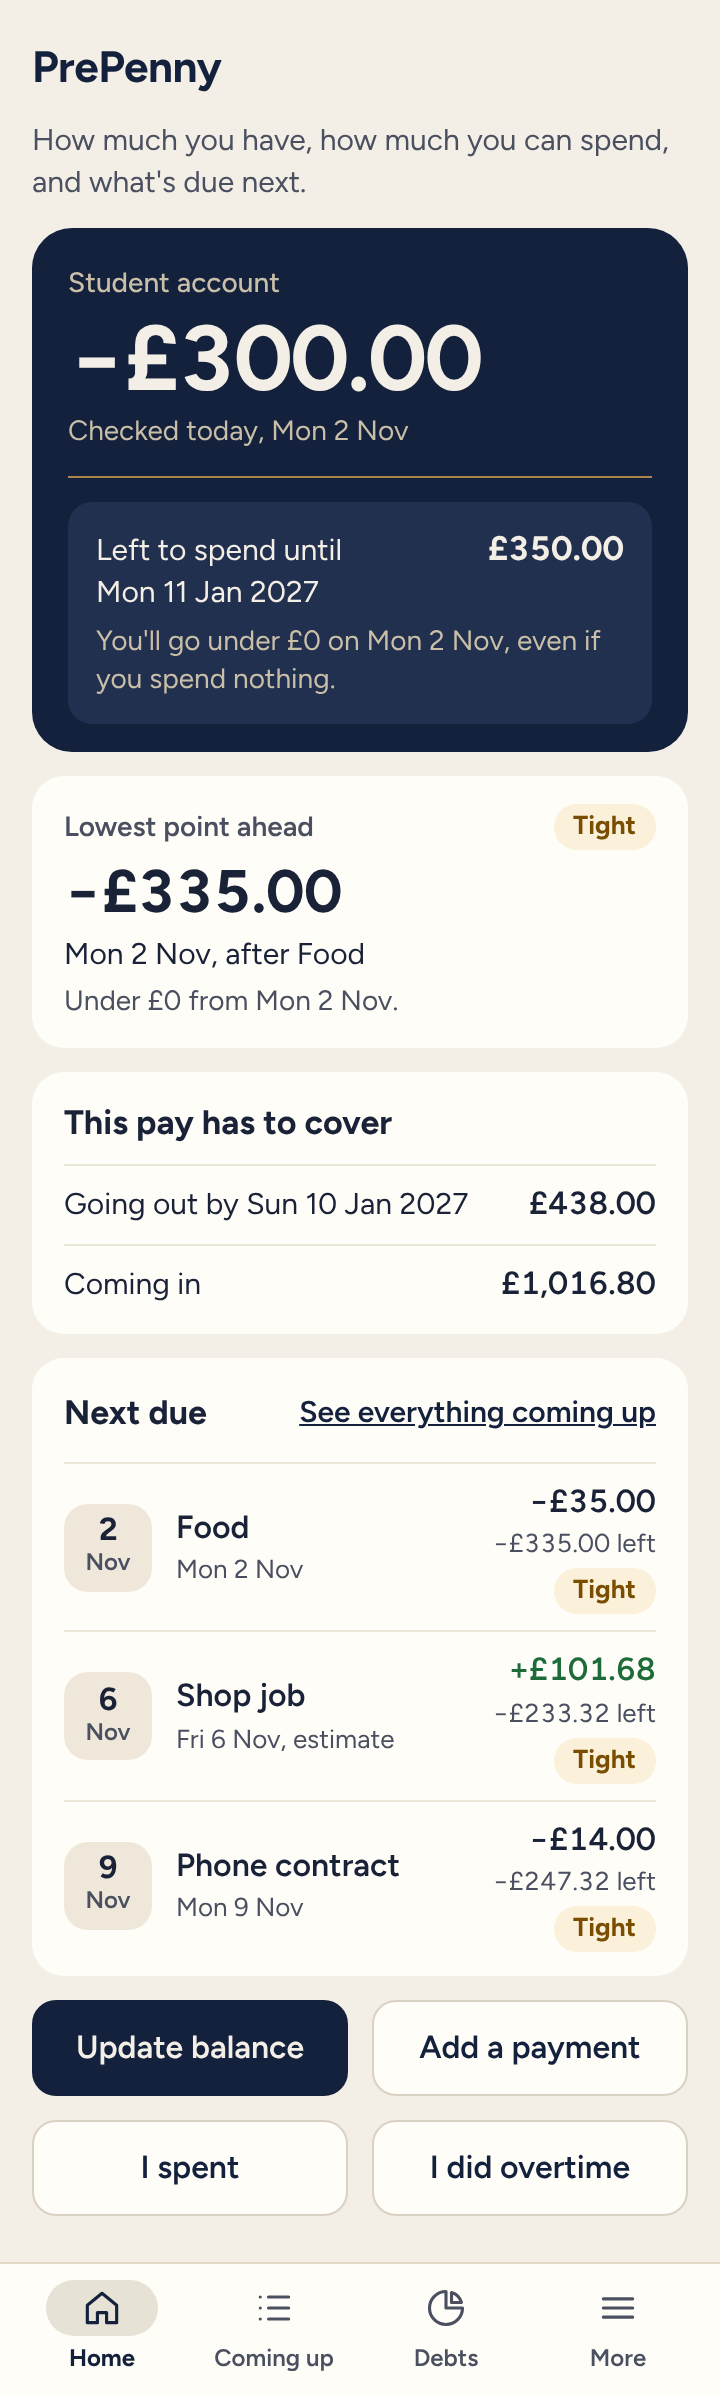
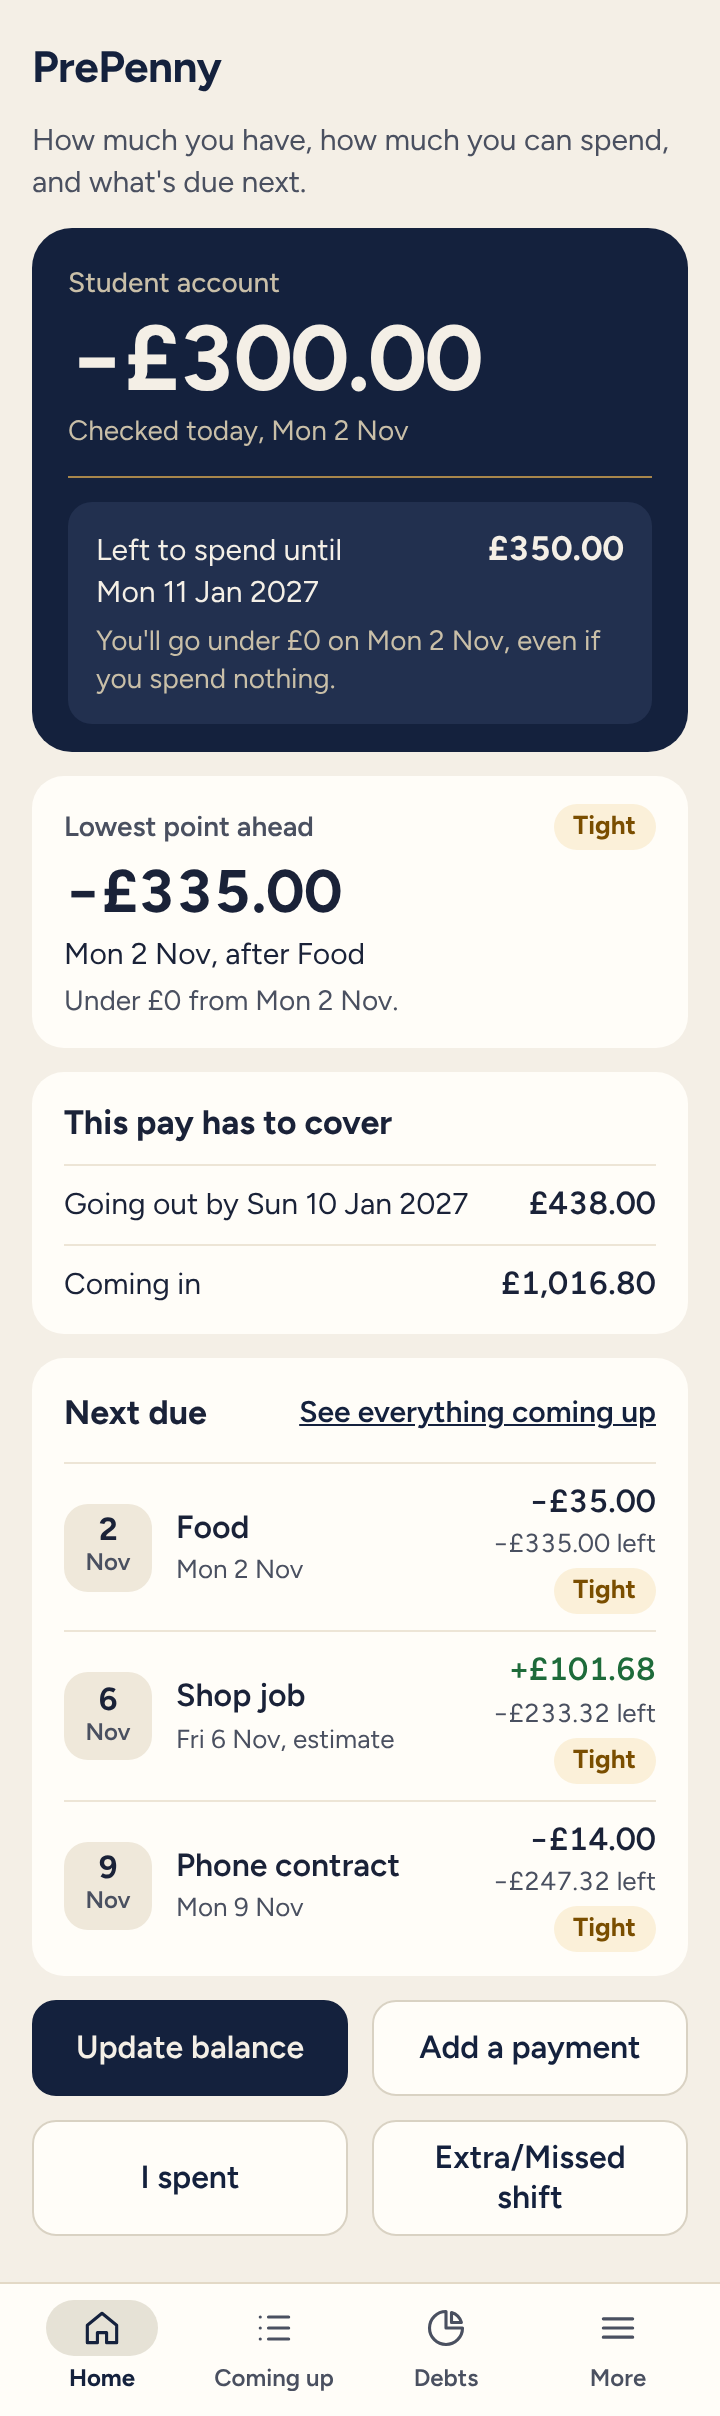
Take step 3a's screenshots, and retake step 2h's Home screenshots with Extra/Missed shift
Claude-Session: https://claude.ai/code/session_01R7WB9vDc4azMZnwEAro6r1

diff --git a/apps/web/e2e/screens.spec.ts b/apps/web/e2e/screens.spec.ts
@@ -14,8 +14,10 @@
 // bottom. Step 2g: What if with the owner's test 1 change made, before
 // keeping it; the pay calculator's result for test 3; and Check my payslip
 // for test 5, at 360px in light. Step 2h: each of the six people's Home at
-// 360px in light, set up through the screens, and Your job. Run only when
-// asked, one step at a time:
+// 360px in light, set up through the screens, and Your job. Step 3a: the
+// screens the owner's answers to step 2h changed. Run only when asked, one
+// step at a time, with the browser in British English (LANG=en_GB.UTF-8), so
+// date boxes read 30/10/2026:
 //
 //   SCREENS=1 pnpm e2e --project phone-360 screens -g "Step 2d-2"
 
@@ -173,7 +175,7 @@ const sheetShots: readonly {
   },
   {
     file: 'overtime-360-light.png',
-    button: 'I did overtime',
+    button: 'Extra/Missed shift',
     setting: null,
     fill: async (page) => {
       const sheet = page.getByRole('dialog');
@@ -568,6 +570,8 @@ const people2h = [
     setUp: async (page: Page) => {
       await setUpPriya(page);
       await page.getByRole('button', { name: 'Go to my plan' }).click();
+      // Setup is saved as done before Home opens, so opening it again finds Home.
+      await expect(page.getByTestId('balance')).toBeVisible();
     },
   },
   { file: 'dee-home-360-light.png', setUp: setUpDee },
@@ -576,6 +580,8 @@ const people2h = [
     setUp: async (page: Page) => {
       await setUpKofi(page);
       await page.getByRole('button', { name: 'Go to my plan' }).click();
+      // Setup is saved as done before Home opens, so opening it again finds Home.
+      await expect(page.getByTestId('balance')).toBeVisible();
     },
   },
   { file: 'jess-and-tom-home-360-light.png', setUp: setUpJessAndTom },
@@ -602,5 +608,131 @@ test('Step 2h: your-job-360-light.png', async ({ browser }) => {
   await page.goto('/app/job/');
   await expect(page.getByTestId('job')).toBeVisible();
   await shoot2h(page, 'your-job-360-light.png');
+  await context.close();
+});
+
+// Step 3a: the screens the owner's answers to step 2h changed (D277 to D284),
+// at 360px in light, on Sam's example: Home's "Extra/Missed shift", Coming
+// up's "Try a change" and "Change view", "Mark as arrived", closing a debt,
+// "Payday 2 of 4" for fortnightly pay, and the undo bar at 200% text at 320px.
+
+async function step3aPage(
+  browser: import('@playwright/test').Browser,
+  setting: TestSetting | null = null,
+  width = 360,
+  height = 800,
+) {
+  const context = await browser.newContext({
+    viewport: { width, height },
+    deviceScaleFactor: 2,
+    isMobile: true,
+    hasTouch: true,
+    colorScheme: 'light',
+    reducedMotion: 'reduce',
+    locale: 'en-GB',
+    timezoneId: 'Europe/London',
+  });
+  await openOnExample(context);
+  if (setting !== null) {
+    await context.addInitScript(settingScript, [TEST_SETTING_KEY, setting] as const);
+  }
+  return { context, page: await context.newPage() };
+}
+
+/** What's on screen now, into docs/screens/3a. */
+async function shoot3a(page: Page, file: string) {
+  await page.evaluate(() => document.fonts.ready);
+  const step = join(screens, '3a');
+  mkdirSync(step, { recursive: true });
+  await page.screenshot({ path: join(step, file) });
+}
+
+test('Step 3a: home-360-light.png', async ({ browser }) => {
+  const { context, page } = await step3aPage(browser);
+  await page.goto('/app/');
+  await expect(page.getByRole('button', { name: 'Extra/Missed shift' })).toBeVisible();
+  await expect(page.getByTestId('balance')).toBeVisible();
+  await expect(page.getByTestId('lowest-point')).toBeVisible();
+  // The whole page, so the four buttons show.
+  const height = await page.evaluate(() => document.documentElement.scrollHeight);
+  await page.setViewportSize({ width: 360, height });
+  await shoot3a(page, 'home-360-light.png');
+  await context.close();
+});
+
+test('Step 3a: coming-up-360-light.png', async ({ browser }) => {
+  const { context, page } = await step3aPage(browser);
+  await page.goto('/app/coming-up/');
+  // "How to read this" shows on the first visit; Got it puts it away (D212).
+  await page.getByRole('button', { name: 'Got it' }).click();
+  await expect(page.getByRole('link', { name: 'Try a change' })).toBeVisible();
+  await expect(page.getByRole('button', { name: 'Change view' })).toBeVisible();
+  await page.evaluate(() => window.scrollTo(0, 0));
+  await shoot3a(page, 'coming-up-360-light.png');
+  await context.close();
+});
+
+test('Step 3a: mark-as-arrived-360-light.png', async ({ browser }) => {
+  const { context, page } = await step3aPage(browser);
+  await page.goto('/app/coming-up/');
+  const friday = page.locator('[data-testid="period"][data-start="2026-10-30"]');
+  await friday.locator(':scope > :is(h3, h4) > button').click();
+  await friday.getByRole('button', { name: /^Pay Fri/ }).click();
+  await expect(
+    page.getByRole('dialog', { name: 'Pay' }).getByRole('button', { name: 'Mark as arrived' }),
+  ).toBeVisible();
+  await shoot3a(page, 'mark-as-arrived-360-light.png');
+  await context.close();
+});
+
+test('Step 3a: close-debt-360-light.png', async ({ browser }) => {
+  const { context, page } = await step3aPage(browser);
+  await page.goto('/app/debts/');
+  await page.getByRole('link', { name: /^Family loan/ }).click();
+  await page.getByRole('button', { name: 'Close this debt' }).click();
+  await expect(page.getByRole('radio', { name: 'Yes, remove them' })).toBeVisible();
+  await shoot3a(page, 'close-debt-360-light.png');
+  await context.close();
+});
+
+test('Step 3a: usual-week-fortnightly-360-light.png', async ({ browser }) => {
+  const fortnightly: PlanRecords = {
+    ...examplePlan,
+    series: examplePlan.series.map((one) =>
+      one.id === 'pay' ? { ...one, schedule: { kind: 'weekly', every: 2 } } : one,
+    ),
+    payProfiles: (examplePlan.payProfiles ?? []).map(({ soFar: _weekly, ...one }) => ({
+      ...one,
+      frequency: 'two-weekly',
+    })),
+  };
+  const { context, page } = await step3aPage(browser, { plan: fortnightly });
+  await page.goto('/app/pay/');
+  await page.getByRole('button', { name: 'Work out take-home pay' }).click();
+  await page
+    .getByTestId('pay-result')
+    .getByRole('button', { name: 'Save as a usual week' })
+    .click();
+  const sheet = page.getByRole('dialog', { name: 'Save as a usual week' });
+  await sheet.getByRole('radio', { name: 'One payday of the pattern' }).check();
+  await sheet.getByRole('radio', { name: /^Payday 2 of 4/ }).check();
+  await sheet.getByRole('radio', { name: /^Payday 2 of 4/ }).scrollIntoViewIfNeeded();
+  await shoot3a(page, 'usual-week-fortnightly-360-light.png');
+  await context.close();
+});
+
+test('Step 3a: undo-bar-200-percent-320-light.png', async ({ browser }) => {
+  const { context, page } = await step3aPage(browser, null, 320, 640);
+  await page.goto('/app/coming-up/');
+  await page.addStyleTag({ content: 'html { font-size: 200% !important; }' });
+  const friday = page.locator('[data-testid="period"][data-start="2026-10-30"]');
+  await friday.locator(':scope > :is(h3, h4) > button').click();
+  await friday.getByRole('button', { name: /^Rent Sun/ }).click();
+  const sheet = page.getByRole('dialog', { name: 'Rent' });
+  await sheet.getByLabel('Amount').fill('560');
+  await sheet.getByRole('radio', { name: 'This and all later ones' }).check();
+  await sheet.getByRole('button', { name: 'Save' }).click();
+  await expect(page.getByTestId('undo-bar')).toContainText('Rent changed.');
+  await shoot3a(page, 'undo-bar-200-percent-320-light.png');
   await context.close();
 });
